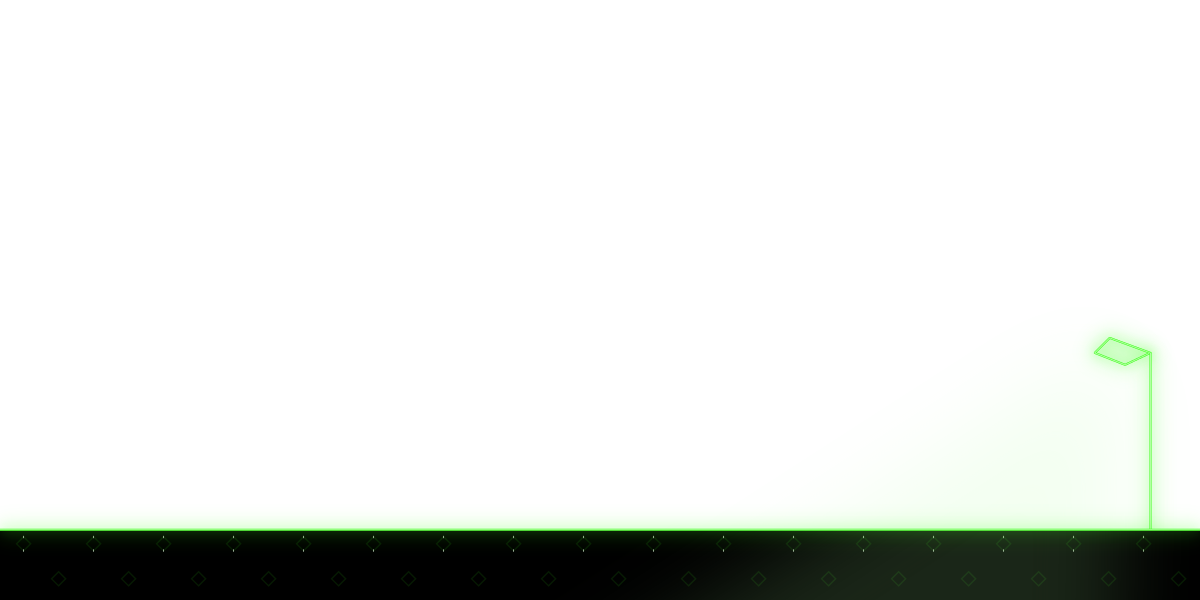
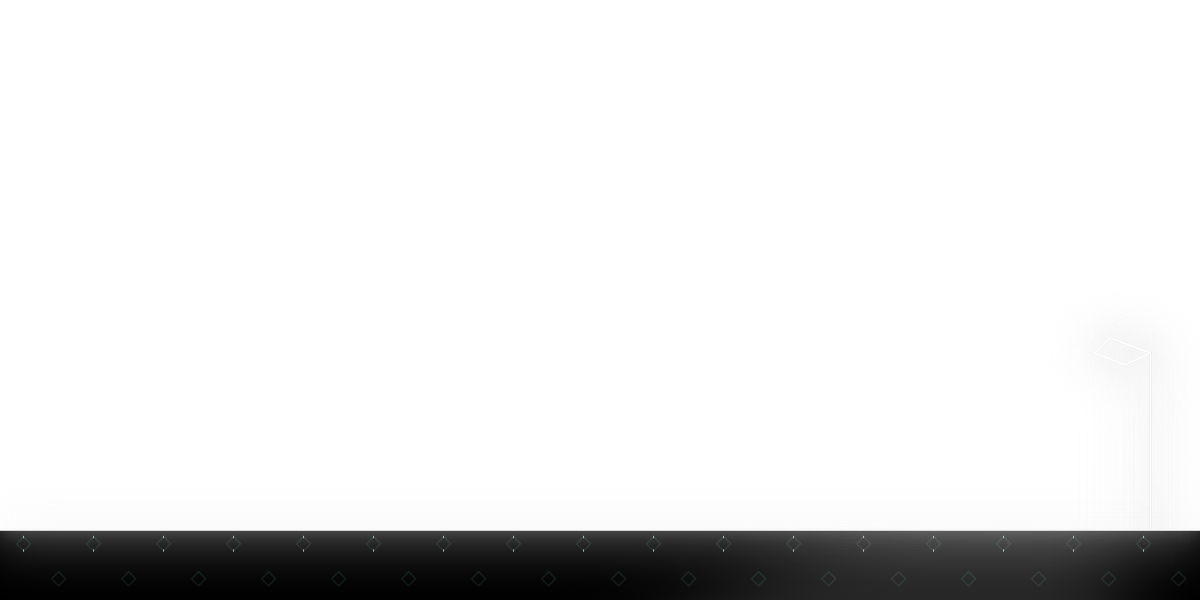
color change

Changed region(s): [[0.0, 0.54, 1.0, 0.96]]

diff --git a/src/scenes/GameScene.js b/src/scenes/GameScene.js
@@ -23,7 +23,7 @@ export default class GameScene extends Phaser.Scene {
         this.score = 0;
         this.moveSpeed = 0.7;
         this.speedIncrement = 0.05;
-        this.colors = ['0x39ff14', '0x2cc3ff', '0xffff00', '0xff0000'];
+        this.colors = ['0x83ffc1', '0x2cc3ff', '0xffff00', '0xff0000'];
         this.maxHp = 100;
         this.hp = 100;
 
@@ -64,6 +64,7 @@ export default class GameScene extends Phaser.Scene {
 
     setSpriteColor(color) {
         this.background.middle.setTint(color);
+        this.background.fore.setTint(color);
     }
 
     createTiledMap() {

diff --git a/src/scenes/MenuScene.js b/src/scenes/MenuScene.js
@@ -60,7 +60,7 @@ export default class MenuScene extends Phaser.Scene {
             x: 200,
             y: 100
         });
-        this.player.setTint(0x39ff14);
+        this.player.setTint(0x00ff80);
     }
 
     update(time, delta) {

diff --git a/src/config/config.js b/src/config/config.js
@@ -7,6 +7,7 @@ export default {
         default: 'arcade',
         arcade: {
             gravity: { y: 1000 },
+            debug: false
 
         }
     }
